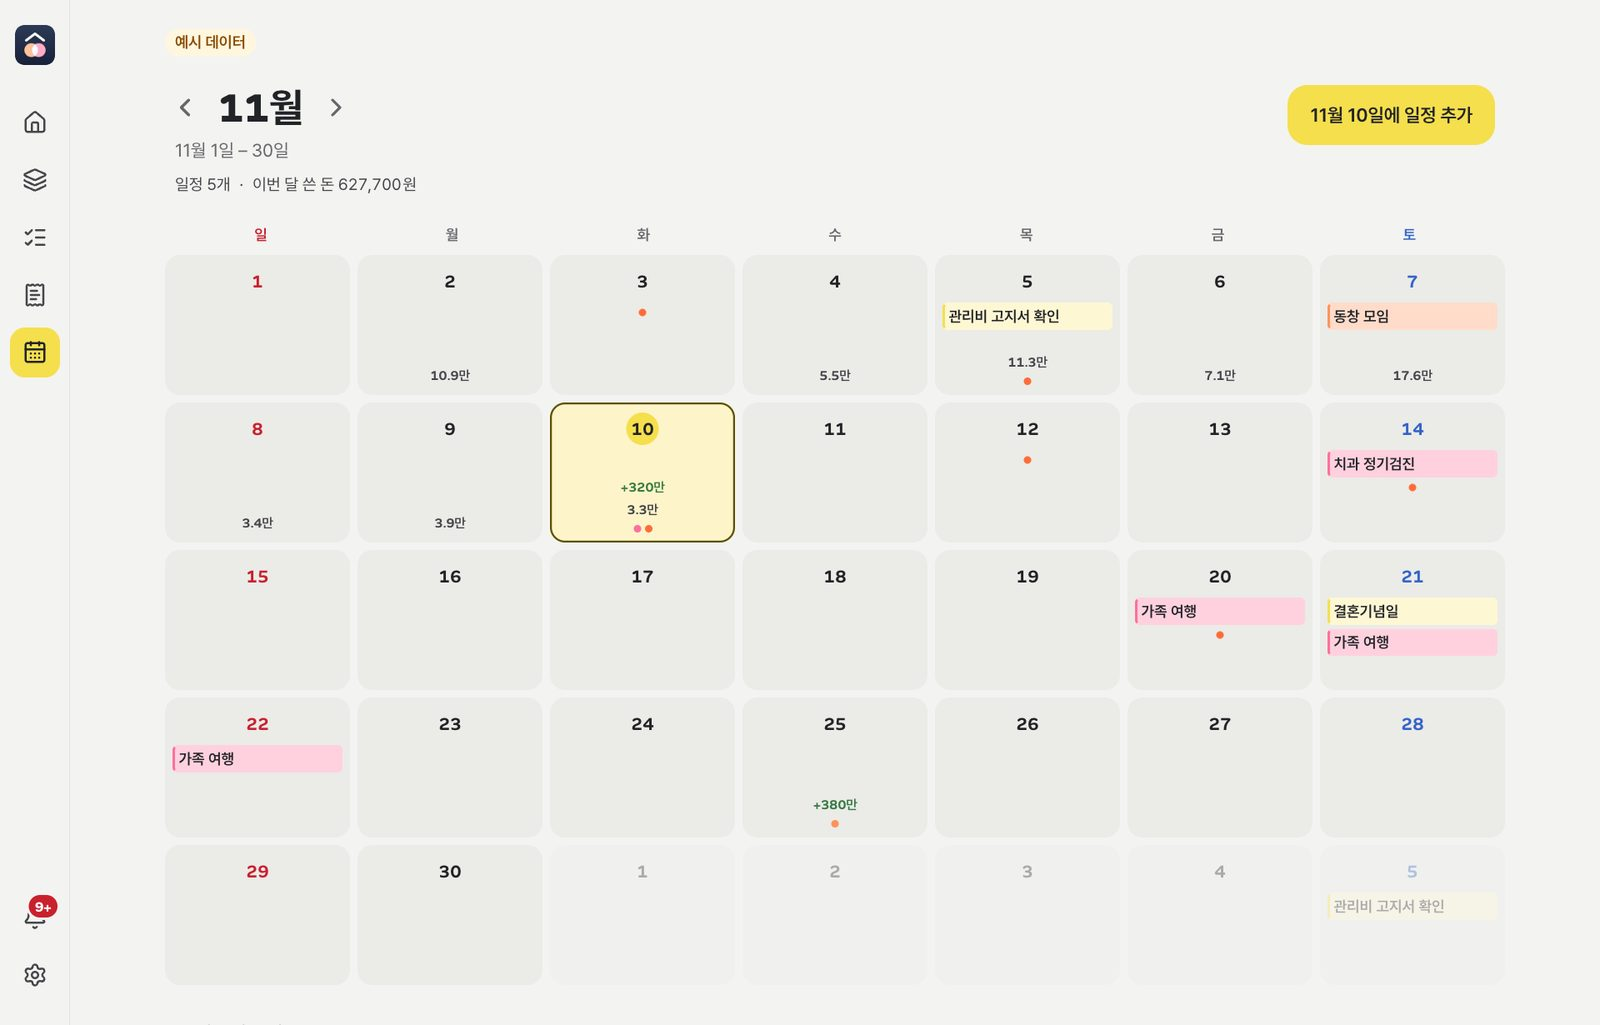
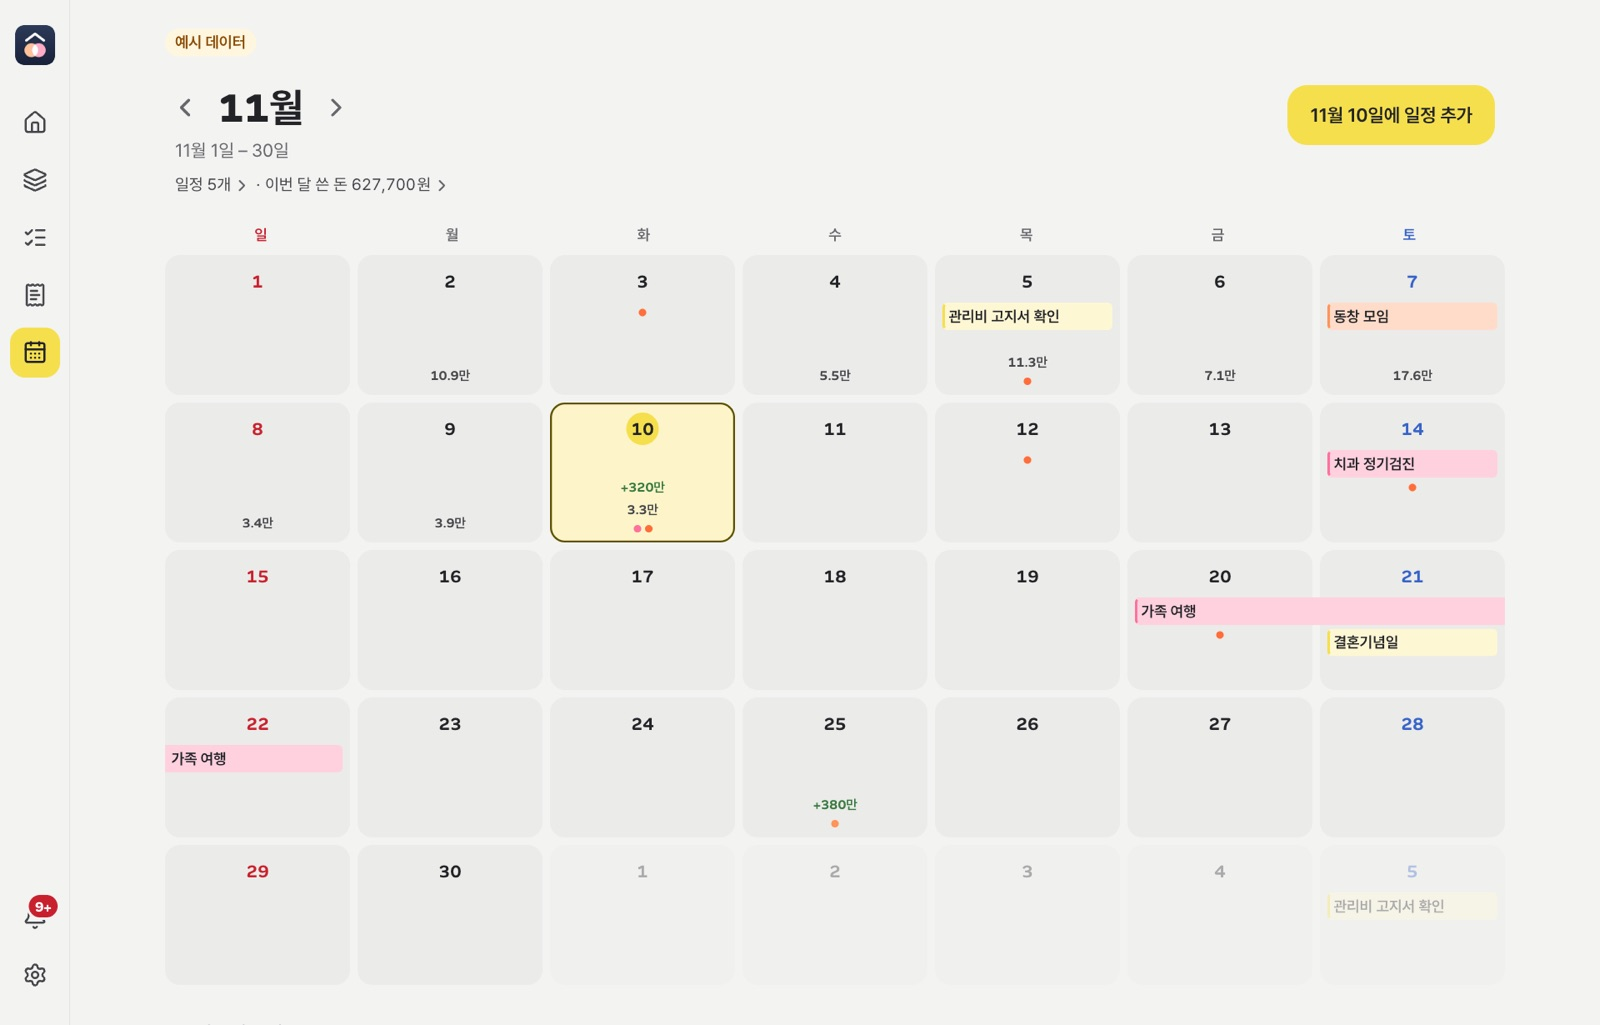
달력의 기간 일정을 이어진 띠로 — 주마다 걸친 칸을 하나로 잇고, 같은 일정은 그 주 내내 같은 줄에
날짜마다 따로 그려 여러 날 일정이 끊겨 보였고, 다른 일정이 끼면 줄이 바뀌었다.
주마다 기간 일정을 줄에 배정해 칸 위에 겹친 그리드 아이템으로 그리고, 칸에는 그 줄만큼 빈자리를 둬 하루 일정이 아래로 비킨다.

Changed region(s): [[0.8125, 0.562, 0.9375, 0.6556], [0.1562, 0.1561, 0.2812, 0.1873], [0.0938, 0.718, 0.1562, 0.7493]]

diff --git a/apps/web/src/components/CalendarCard.tsx b/apps/web/src/components/CalendarCard.tsx
@@ -1,5 +1,6 @@
 "use client";
 
+import type { CSSProperties } from "react";
 import type { Mark } from "@/lib/calendar";
 import { dateWithDay, num } from "@/lib/format";
 
@@ -12,8 +13,42 @@ function short(n: number): string {
   return `${man >= 100 || Number.isInteger(man) ? Math.round(man) : man.toFixed(1)}만`;
 }
 
+/** 한 칸에 보이는 일정 줄 수 (기간 띠 + 하루 일정) */
+const ROWS = 3;
+
+/** 한 주 안의 기간 일정 띠: c0~c1 칸(0=일요일)에 걸치고 lane 번째 줄에 놓인다 */
+interface Span {
+  key: string;
+  mark: Mark;
+  lane: number;
+  c0: number;
+  c1: number;
+  /** 이 주에서 시작·끝나면 그쪽 끝을 둥글게 */
+  head: boolean;
+  tail: boolean;
+}
+
+/** 주마다 기간 일정(이틀 이상)을 줄에 배정한다: 먼저 시작한 것, 같으면 긴 것부터 비어 있는 가장 위 줄로 — 그래야 같은 일정이 매일 같은 줄에 있다 */
+function weekSpans(week: string[], marks: Map<string, Mark[]>): Span[] {
+  const seen = new Map<string, Mark>();
+  for (const d of week) for (const m of marks.get(d) ?? []) if (m.occ && m.occ.start !== m.occ.end) seen.set(`${m.event!.id}:${m.occ.start}`, m);
+  const lanes: number[] = []; // 줄마다 마지막으로 찬 칸
+  return [...seen.entries()]
+    .sort(([, a], [, b]) => a.occ!.start.localeCompare(b.occ!.start) || b.occ!.end.localeCompare(a.occ!.end))
+    .map(([key, mark]) => {
+      const o = mark.occ!;
+      const c0 = Math.max(0, week.indexOf(o.start));
+      const c1 = week.includes(o.end) ? week.indexOf(o.end) : 6;
+      let lane = lanes.findIndex((end) => end < c0);
+      if (lane < 0) lane = lanes.length;
+      lanes[lane] = c1;
+      return { key, mark, lane, c0, c1, head: o.start >= week[0], tail: o.end <= week[6] };
+    });
+}
+
 /**
  * 달력 — 카드로 감싸지 않고 화면 너비를 다 쓴다. 날짜마다 일정 이름(입력한 사람 색)·쓴 돈·돈 일의 점.
+ * 기간 일정은 주마다 걸친 칸을 잇는 띠 하나로 그린다(칸 위에 겹친 그리드 아이템). 칸에는 그 줄만큼 빈자리를 둬 하루 일정이 아래로 비킨다.
  * 폰에서는 줄이 남는 높이를 나눠 가져 화면을 꽉 채운다(달력 화면의 첫 칸). 좌우로 밀면 달이 넘어간다.
  */
 export function CalendarCard({
@@ -35,6 +70,7 @@ export function CalendarCard({
   onPick: (d: string, openDay: boolean) => void;
 }) {
   const inMonth = (d: string) => d.slice(0, 7) === month;
+  const weeks = Array.from({ length: Math.ceil(cells.length / 7) }, (_, w) => weekSpans(cells.slice(w * 7, w * 7 + 7), marks));
   return (
     <div className="cal">
       <div className="cal-week" aria-hidden="true">
@@ -47,7 +83,11 @@ export function CalendarCard({
       <div className="cal-grid" role="grid" aria-label={`${Number(month.slice(5))}월`}>
         {cells.map((d, i) => {
           const ms = marks.get(d) ?? [];
-          const events = ms.filter((m) => m.event);
+          // 이 칸을 지나는 기간 띠가 쓰는 줄 수만큼 빈자리, 남은 줄에 하루 일정
+          const spans = weeks[Math.floor(i / 7)].filter((s) => s.c0 <= i % 7 && i % 7 <= s.c1);
+          const used = Math.min(ROWS, spans.reduce((n, s) => Math.max(n, s.lane + 1), 0));
+          const singles = ms.filter((m) => m.event && !(m.occ && m.occ.start !== m.occ.end));
+          const hidden = spans.filter((s) => s.lane >= ROWS).length + Math.max(0, singles.length - (ROWS - used));
           const kinds = [...new Set(ms.filter((m) => !m.event).map((m) => (m.kind === "payday" ? `k-payday ${m.owner}` : `k-${m.kind}`)))].slice(0, 3);
           const amount = spent.get(d) ?? 0;
           const income = ms.reduce((a, m) => a + (m.kind === "payday" ? (m.amount ?? 0) : 0), 0);
@@ -57,14 +97,16 @@ export function CalendarCard({
               key={d}
               type="button"
               className={`cal-day ${inMonth(d) ? "" : "out"} ${d === today ? "today" : ""} ${d === day ? "picked" : ""} ${i % 7 === 0 ? "sun" : i % 7 === 6 ? "sat" : ""}`}
+              style={{ gridRow: Math.floor(i / 7) + 1, gridColumn: (i % 7) + 1 }}
               aria-label={label}
               aria-pressed={d === day}
               onClick={() => onPick(d, true)}
             >
               <span className="n">{Number(d.slice(8))}</span>
               <span className="cal-events" aria-hidden="true">
-                {events.slice(0, 3).map((m) => <span className={`cal-event ${m.event!.created_by ?? ""}`} key={m.event!.id}>{m.title}</span>)}
-                {events.length > 3 && <span className="cal-more">+{events.length - 3}개</span>}
+                {Array.from({ length: used }, (_, k) => <span className="cal-lane" key={`lane${k}`} />)}
+                {singles.slice(0, ROWS - used).map((m) => <span className={`cal-event ${m.event!.created_by ?? ""}`} key={m.event!.id}>{m.title}</span>)}
+                {hidden > 0 && <span className="cal-more">+{hidden}개</span>}
               </span>
               {income > 0 && <span className="amt in">+{short(income)}</span>}
               {amount > 0 && <span className="amt">{short(amount)}</span>}
@@ -78,6 +120,21 @@ export function CalendarCard({
             </button>
           );
         })}
+        {/* 기간 띠: 칸 위에 겹쳐 그 주에서 걸친 칸을 잇는다. 누르기는 아래 칸이 받는다. 이름은 시작한 날(또는 주 첫 칸)에만 */}
+        {weeks.flatMap((spans, w) =>
+          spans
+            .filter((s) => s.lane < ROWS)
+            .map((s) => (
+              <span
+                key={`${s.key}:${w}`}
+                className={`cal-span ${s.mark.event!.created_by ?? ""} ${s.head ? "head" : ""} ${s.tail ? "tail" : ""}`}
+                style={{ gridRow: w + 1, gridColumn: `${s.c0 + 1} / ${s.c1 + 2}`, "--lane": s.lane } as CSSProperties}
+                aria-hidden="true"
+              >
+                {s.mark.title}
+              </span>
+            )),
+        )}
       </div>
     </div>
   );

diff --git a/apps/web/src/app/globals.css b/apps/web/src/app/globals.css
@@ -280,7 +280,8 @@ button, a, [role="button"], .chip, .tab, .seg button, .preset, .db {
 /* 카드 없이 화면 너비를 다 쓴다: 바깥 여백(--edge)을 거슬러 가장자리 4px까지, 가로 안전 영역(노치)은 피한다 */
 .cal { margin-inline: calc(max(4px, env(safe-area-inset-left, 0px)) - var(--edge)) calc(max(4px, env(safe-area-inset-right, 0px)) - var(--edge)); }
 .cal-week, .cal-grid { display: grid; grid-template-columns: repeat(7, minmax(0, 1fr)); }
-.cal-grid { gap: 4px 2px; }
+/* 칸 안쪽 여백과 일정 한 줄 높이 — 기간 띠(.cal-span)가 칸의 일정 줄과 같은 자리에 오도록 함께 쓴다 */
+.cal-grid { --cal-pad-t: 6px; --cal-pad-x: 2px; --ev-h: 18px; gap: 4px 2px; }
 .cal-week span { padding: 2px 0 8px; color: var(--faint); font: 600 12px/16px var(--font-text); text-align: center; }
 .cal-week .sun, .cal-day.sun .n { color: var(--negative); }
 .cal-week .sat, .cal-day.sat .n { color: var(--saturday); }
@@ -309,6 +310,15 @@ button, a, [role="button"], .chip, .tab, .seg button, .preset, .db {
 .cal-event { --who: var(--joint); display: -webkit-box; overflow: hidden; padding: 0 3px; border: 2px solid transparent; border-left-color: var(--who); border-radius: 4px; background: color-mix(in srgb, var(--who) 24%, var(--surface)); color: var(--text); font: 600 11px/14px var(--font-text); text-align: left; -webkit-box-orient: vertical; -webkit-line-clamp: 2; }
 .cal-event.a { --who: var(--a); background: color-mix(in srgb, var(--who) 32%, var(--surface)); }
 .cal-event.b { --who: var(--b); background: color-mix(in srgb, var(--who) 32%, var(--surface)); }
+/* 기간 일정: 주마다 걸친 칸을 잇는 띠 하나. 칸에는 같은 높이의 빈자리(.cal-lane)를 둬 하루 일정이 아래로 비킨다.
+   시작한 날만 왼쪽 막대·둥근 끝, 끝나는 날만 오른쪽 둥근 끝 — 주를 넘어가는 쪽은 각지게 칸 끝까지 */
+.cal-lane { flex: none; height: var(--ev-h); }
+.cal-span { --who: var(--joint); position: relative; z-index: 1; align-self: start; min-width: 0; height: var(--ev-h); margin-top: calc(var(--cal-pad-t) + 26px + 4px + var(--lane) * (var(--ev-h) + 3px)); overflow: hidden; padding: 0 3px; border: 2px solid transparent; background: color-mix(in srgb, var(--who) 24%, var(--surface)); color: var(--text); font: 600 11px/14px var(--font-text); white-space: nowrap; text-overflow: ellipsis; pointer-events: none; }
+.cal-span.a { --who: var(--a); background: color-mix(in srgb, var(--who) 32%, var(--surface)); }
+.cal-span.b { --who: var(--b); background: color-mix(in srgb, var(--who) 32%, var(--surface)); }
+.cal-span.head { margin-left: var(--cal-pad-x); border-left-color: var(--who); border-radius: 4px 0 0 4px; }
+.cal-span.tail { margin-right: var(--cal-pad-x); border-radius: 0 4px 4px 0; }
+.cal-span.head.tail { border-radius: 4px; }
 .cal-more { color: var(--muted); font: 500 10px/14px var(--font-text); text-align: left; }
 .cal-day .amt { margin-top: auto; }
 .cal-day .amt.in + .amt { margin-top: 0; }
@@ -404,9 +414,9 @@ button, a, [role="button"], .chip, .tab, .seg button, .preset, .db {
 .cal-empty .btn svg { width: 18px; height: 18px; }
 .cal-overview { margin-top: 16px; }
 @media (min-width: 720px) {
-  .cal-grid { gap: 6px; }
+  .cal-grid { --cal-pad-t: 8px; --cal-pad-x: 6px; --ev-h: 22px; gap: 6px; }
   .cal-day { padding: 8px 6px; }
-  .cal-event { font-size: 12px; line-height: 18px; }
+  .cal-event, .cal-span { font-size: 12px; line-height: 18px; }
 }
 @media (min-width: 1024px) {
   .cal { margin-inline: 0; }

diff --git a/docs/design-system/components/Calendar/README.md b/docs/design-system/components/Calendar/README.md
@@ -17,7 +17,11 @@
   - **메뉴가 돌아옴:** 모아 보기 위쪽이 화면 가운데를 넘으면(`data-cal="open"`) 캡슐과 버튼이 같은 박자로 제자리로 돌아옵니다. 다시 위로 올리면 또 비켜 줍니다.
   - **처음 왔을 때:** 모아 보기를 아직 내려 본 적 없는 기기에서는 가운데 버튼 바로 위에 반투명(38%) `ChevronDown`이 5px 오르내리고(누르면 모아 보기로 내려감), 들어온 지 0.7초 뒤 화면을 96px 올려 모아 보기 머리를 살짝 비춘 다음 되돌립니다(1.5초, `transform`만, 앱을 켜 둔 동안 한 번). 한 번 내려 보면 이 기기에서는 둘 다 다시 하지 않습니다(`our-money-cal-more-seen`).
   - 데스크톱(레일)은 하단 메뉴가 없어 스냅·비켜 주기 없이 달력 아래에 모아 보기가 이어집니다.
-- **월 격자:** 카드로 감싸지 않습니다. 휴대폰·태블릿(1024px 미만)에서는 바깥 여백을 거슬러 화면 가장자리 4px(가로 안전 영역이 더 크면 그만큼)까지 넓히고, 레일이 있는 넓은 화면에서는 본문 너비를 씁니다. 모든 너비에서 7열을 넓게 사용합니다. 날짜 칸은 데스크톱에서 높이 112~148px(폰은 화면을 나눠 가진 높이), 일정 이름은 최대 3개와 남은 개수입니다. 긴 이름은 말줄임하고 접근성 이름과 상세에는 전체 제목을 남깁니다. 기간 일정은 걸친 날짜마다 이름을 표시합니다.
+- **월 격자:** 카드로 감싸지 않습니다. 휴대폰·태블릿(1024px 미만)에서는 바깥 여백을 거슬러 화면 가장자리 4px(가로 안전 영역이 더 크면 그만큼)까지 넓히고, 레일이 있는 넓은 화면에서는 본문 너비를 씁니다. 모든 너비에서 7열을 넓게 사용합니다. 날짜 칸은 데스크톱에서 높이 112~148px(폰은 화면을 나눠 가진 높이), 일정 이름은 최대 3개와 남은 개수입니다. 긴 이름은 말줄임하고 접근성 이름과 상세에는 전체 제목을 남깁니다. 기간 일정(이틀 이상)은 날짜마다 따로 그리지 않고 **주마다 걸친 칸을 잇는 띠 하나**로 그립니다.
+  - 띠는 칸 위에 겹친 그리드 아이템(`.cal-span`, `grid-column: 시작 / 끝+1`)이라 칸 사이 틈까지 이어지고, 누르기는 아래 칸이 받습니다. 이름은 띠의 왼쪽(시작한 날 또는 그 주 첫 칸)에 한 줄로, 넘치면 말줄임.
+  - 시작한 날에만 사람 색 왼쪽 막대와 왼쪽 둥근 끝, 끝나는 날에만 오른쪽 둥근 끝을 두고, 주를 넘어가는 쪽은 각지게 칸 끝까지 그립니다.
+  - 줄 배정: 주마다 먼저 시작한 것(같으면 긴 것)부터 비어 있는 가장 위 줄에 놓아, 같은 일정이 그 주 내내 같은 줄에 있습니다. 칸에는 띠가 쓰는 줄만큼 같은 높이의 빈자리(`.cal-lane`)를 두고 하루 일정은 그 아래에 둡니다. 띠와 하루 일정을 합쳐 3줄, 넘치면 "+N개".
+  - 띠의 높이·세로 위치는 칸과 같은 변수(`--cal-pad-t`·`--cal-pad-x`·`--ev-h`: 폰 6·2·18px, 720px 이상 8·6·22px)로 맞춥니다.
 - **구분:** 일정은 입력한 사람(`created_by`)의 색으로 칠합니다. 왼쪽 2px 막대는 `a`/`b` 원색, 바탕은 같은 색을 `surface`에 32% 섞은 색, 글자는 대비를 위해 `text`입니다. 입력한 사람을 모르면 `joint` 색(24%)입니다. 날짜 패널의 일정 점도 같은 기준입니다. 오늘은 `primary` 원, 선택한 날짜는 `accent-soft`·안쪽 선입니다. 지출 금액과 월급·결제·이체의 점 표시도 유지합니다.
 - **날짜 선택:** 클릭·Enter·Space로 날짜를 고르면 그날 일정·돈 일·지출을 담은 패널이 아래에서 올라옵니다. 볼 것이 없는 날은 패널을 열지 않고 고르기만 합니다. 패널 머리의 닫기는 상자 없이 아이콘만 두고, `N월 N일에 일정 추가`는 패널 맨 아래의 넓은 버튼입니다. 아래 추가 버튼의 이름이 `11월 19일에 일정 추가`처럼 고른 날짜로 바뀝니다. 패널을 연 채로 내역이 모두 지워지면 상자 없이 가운데에 아이콘·`비어 있는 날이에요`·안내 한 줄·`일정 추가` 버튼을 둡니다.
 - **날짜 패널:** 애플 캘린더 목록 보기를 참고했습니다.

diff --git a/CHANGELOG.md b/CHANGELOG.md
@@ -8,6 +8,7 @@
 ## 다음 버전
 
 - 달력 첫 화면에서 아래로 내릴 때 **고무줄처럼 버텨요**. 손가락보다 덜 따라오다가, 조금만 끌고 놓으면 달력으로 돌아오고 충분히 끌거나 빠르게 튕기면 모아 보기로 넘어가요. 모아 보기가 짧을 때(할 일을 다 끝낸 달 등) 내려도 아래 메뉴가 돌아오지 않던 것도 고쳤어요.
+- 달력에서 며칠에 걸친 일정이 날짜마다 따로 그려지지 않고 **이어진 띠 하나**로 보여요. 시작한 날에 이름과 사람 색 막대가 있고, 같은 일정은 그 주 내내 같은 줄에 있어요.
 - **DB 이전:** 없음
 
 ## v0.6.0 — 2026-11-12
